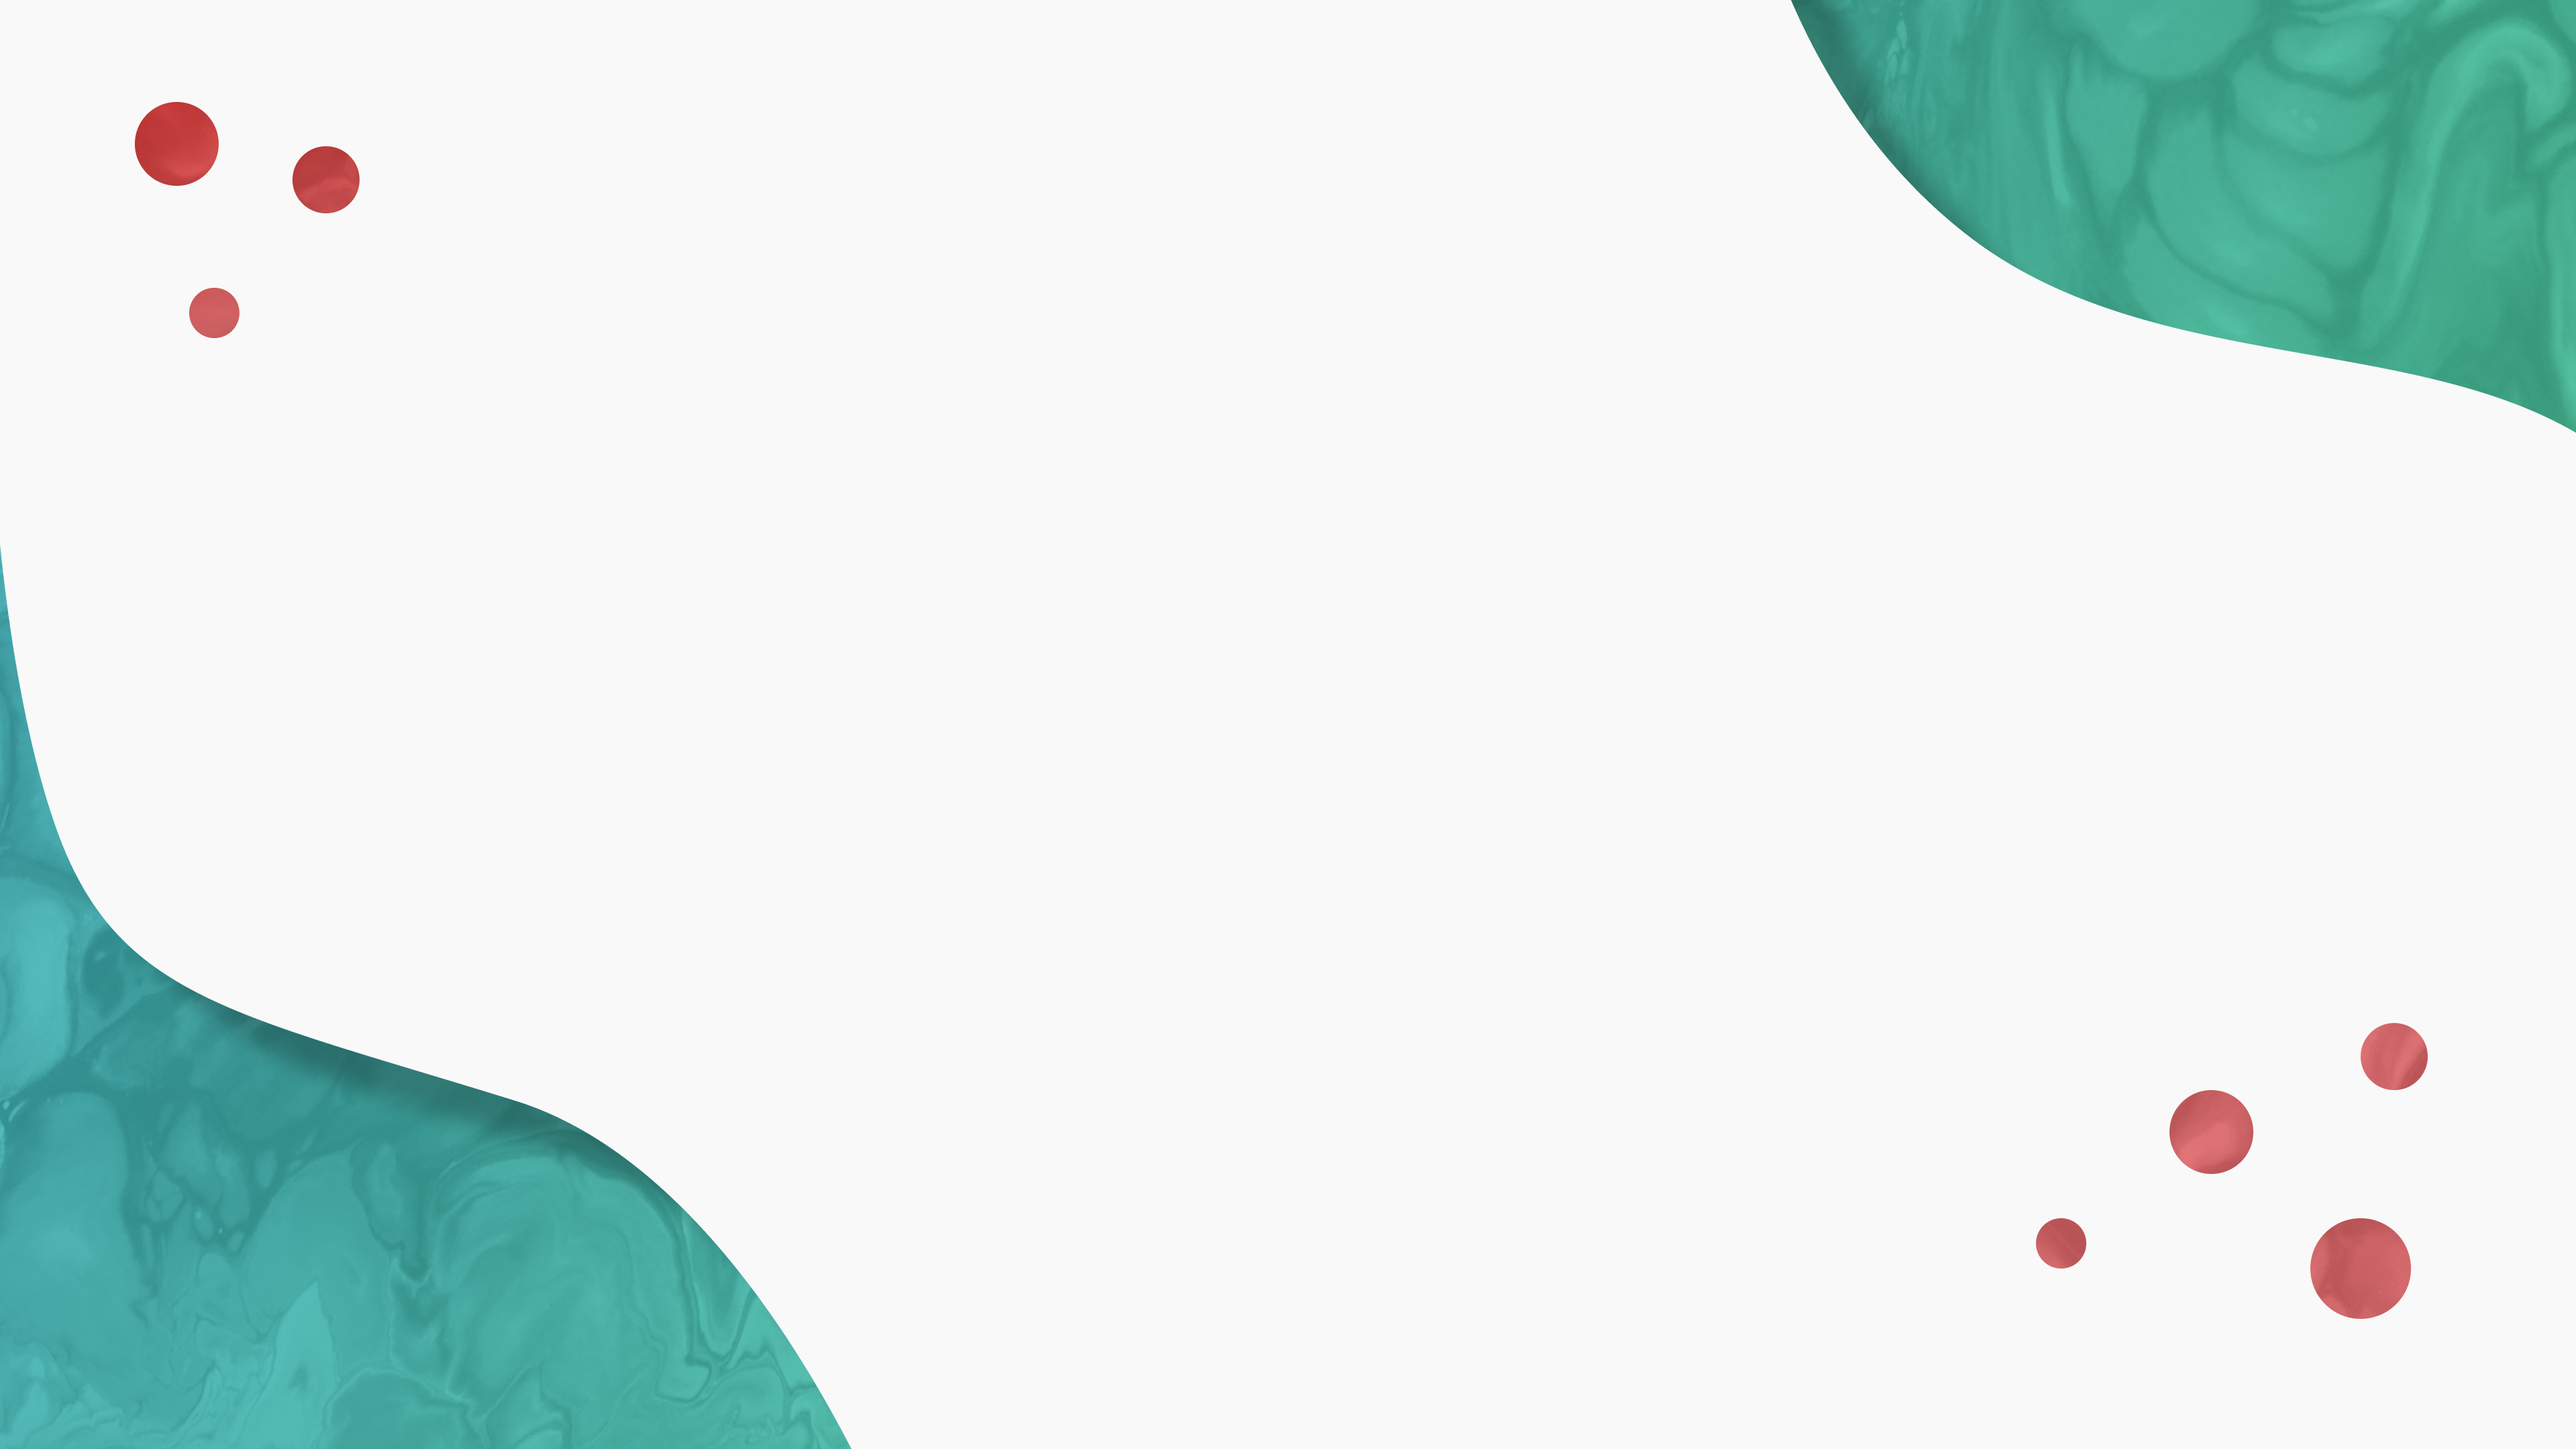
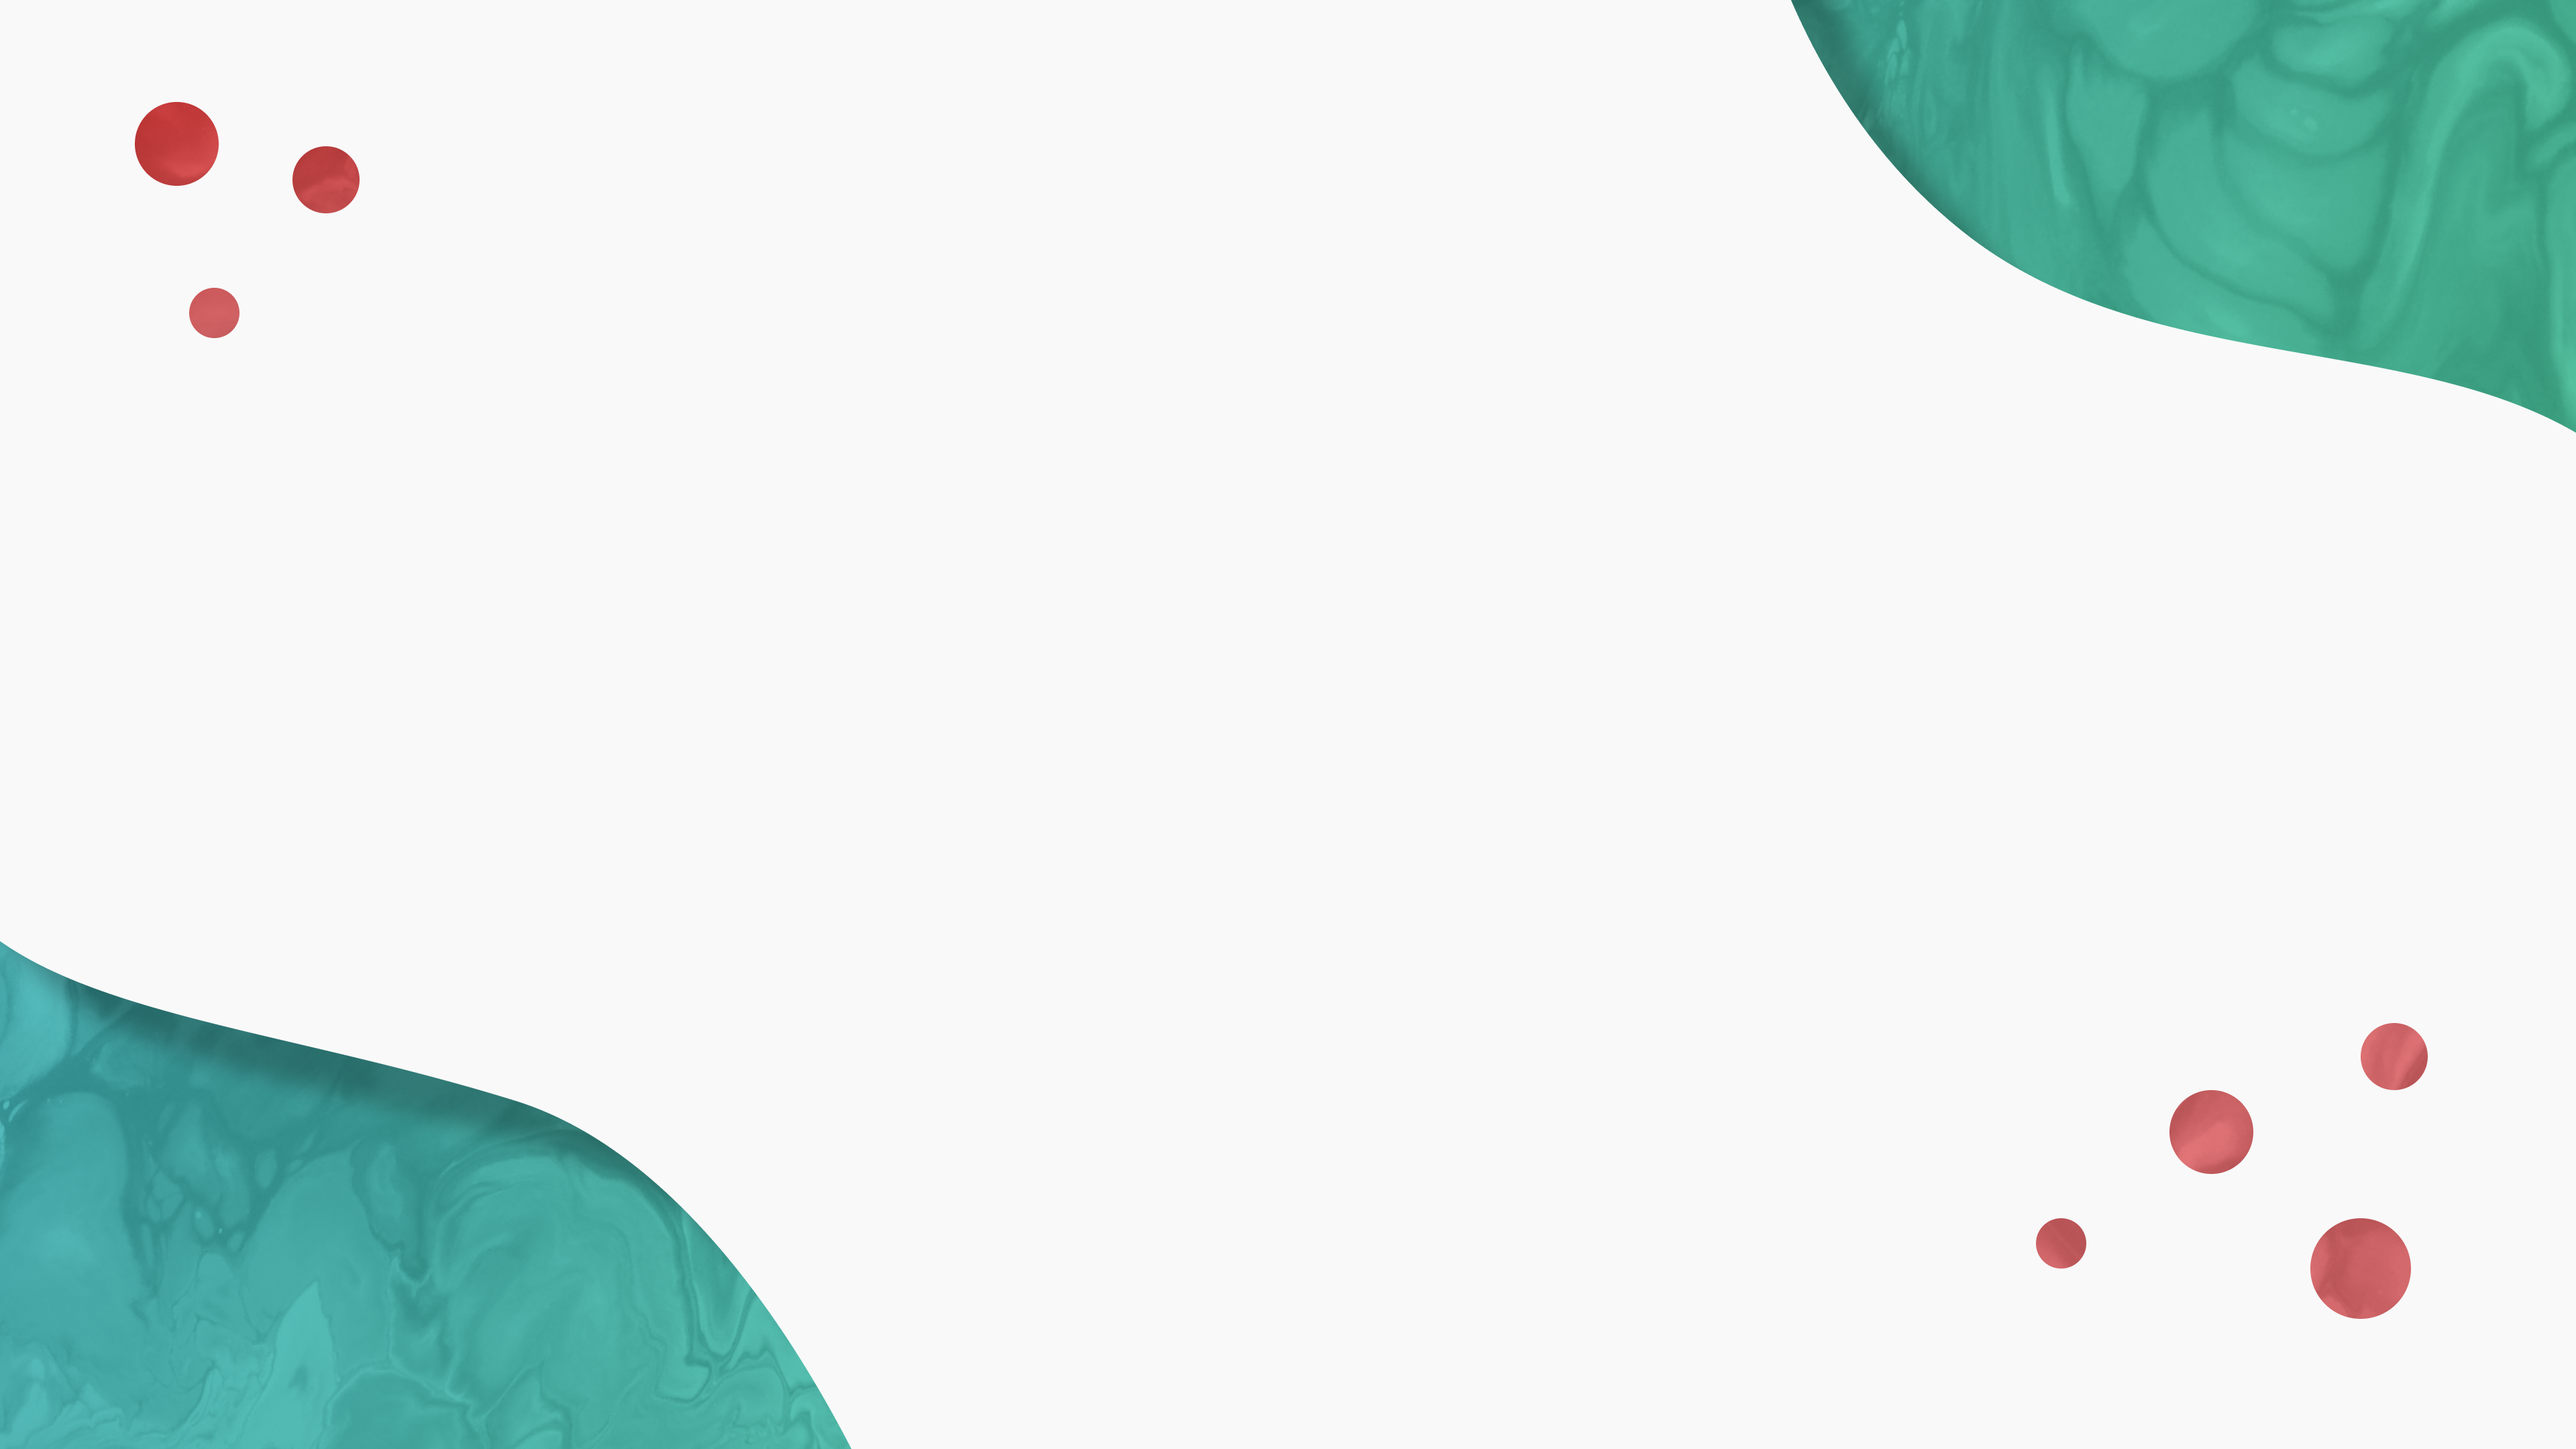
Stretch 2.2 - Launch screen hover animations added

Changed region(s): [[0.0, 0.4343, 0.1562, 0.7444]]

diff --git a/styles/style.css b/styles/style.css
@@ -129,9 +129,37 @@ h1 {
     transition: .25s ease;
 }
 
-/* .ram:hover ~ .bg {
+.ram:hover ~ .bg {
     background-image: url(../images/ramlaunchbg.png);
-} */
+}
+
+.lotr:hover ~ .bg {
+    background-image: url(../images/lotrlaunchbg.png);
+}
+
+.sthings:hover ~ .bg {
+    background-image: url(../images/sthingslaunchbg.png);
+}
+
+.dis:hover ~ .bg {
+    background-image: url(../images/dislaunchbg.png);
+}
+
+.marv:hover ~ .bg {
+    background-image: url(../images/marvlaunchbg.png);
+}
+
+.swars:hover ~ .bg {
+    background-image: url(../images/swarslaunchbg.png);
+}
+
+.office:hover ~ .bg {
+    background-image: url(../images/officelaunchbg.png);
+}
+
+.bttf:hover ~ .bg {
+    background-image: url(../images/bttflaunchbg.png);
+}
 
 .questions {
     margin: 0 40px 0 40px;
